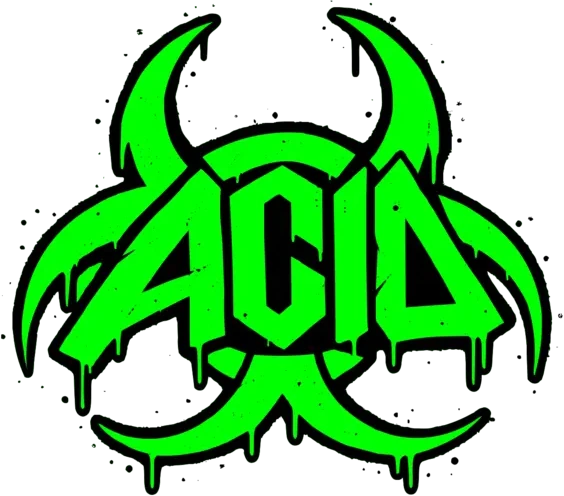
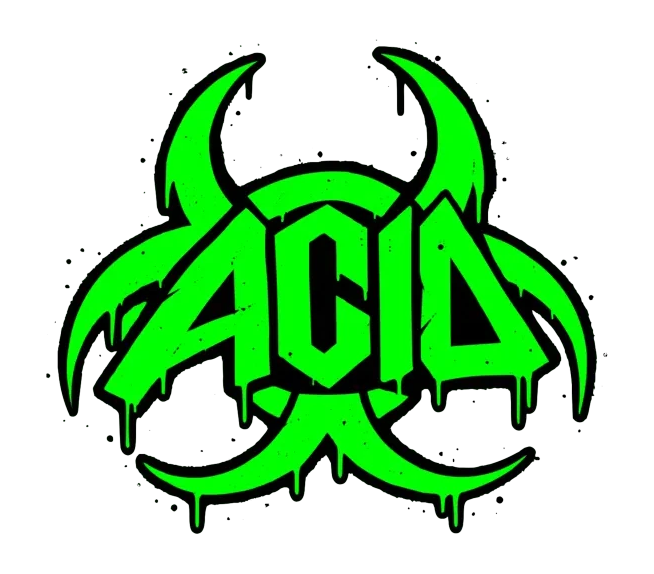
Actualizacion dom 20/09/2026 14:32:10.71

diff --git a/files/styles_R5Bk.css b/files/styles_R5Bk.css
@@ -1,5 +1,5 @@
 :root{--black:#08090a;--ink:#0e0f0c;--panel:#14160f;--line:rgba(180,255,120,.13);--cream:#0b0c09;--white:#fff;--acid:#00ff00;--acid-bright:#1b5e20;--hazard:#ffb300;--muted:#9a9c8f;--max:1320px;--pad:clamp(22px,5vw,72px);--gold:var(--acid);--gold-bright:var(--acid-bright)}
-*{box-sizing:border-box}html{scroll-behavior:smooth;zoom:0.85}body{margin:0;background:var(--black);color:var(--white);font-family:Inter,Segoe UI,Arial,sans-serif;font-size:16px;line-height:1.55;overflow-x:hidden}h1,h2,h3,h4,.brand,.site-header nav,.kicker,.ticker-track,.button,.filters button{font-family:Oswald,Impact,Arial Narrow,sans-serif}body.modal-open{overflow:hidden}a{color:inherit;text-decoration:none}button,input,textarea,select{font:inherit}button{color:inherit}.skip-link{position:fixed;left:16px;top:-60px;z-index:100;background:var(--gold);color:var(--black);padding:10px 16px;font-weight:800}.skip-link:focus{top:16px}.site-header{height:82px;position:absolute;top:0;left:0;right:0;z-index:20;display:flex;align-items:center;justify-content:space-between;padding:0 var(--pad);border-bottom:1px solid rgba(255,255,255,.15)}.site-header.scrolled{position:fixed;height:68px;background:rgba(7,7,7,.94)}.brand{display:flex;align-items:center;gap:12px;font-weight:900;letter-spacing:.18em}.brand>span:last-child{position:relative}.brand-mark{width:44px;height:44px;display:grid;place-items:center;overflow:visible;background:transparent;border:0}.brand-mark img{width:175%;height:175%;object-fit:contain}.site-header nav{display:flex;align-items:center;gap:clamp(20px,2.6vw,42px);font-size:.84rem;font-weight:750;letter-spacing:.08em;text-transform:uppercase}.site-header nav a{transition:color .2s}.site-header nav a:hover,.site-header nav a:focus-visible{color:var(--gold-bright)}.store-link{padding:11px 16px;border:1px solid var(--gold);color:var(--gold-bright)}.menu-toggle{display:none;background:none;border:0;padding:12px}.menu-toggle span{display:block;width:24px;height:1px;background:#fff;margin:6px}
+*{box-sizing:border-box}html{scroll-behavior:smooth;zoom:0.85}body{margin:0;background:var(--black);color:var(--white);font-family:Inter,Segoe UI,Arial,sans-serif;font-size:16px;line-height:1.55;overflow-x:hidden}h1,h2,h3,h4,.brand,.site-header nav,.kicker,.ticker-track,.button,.filters button{font-family:Oswald,Impact,Arial Narrow,sans-serif}body.modal-open{overflow:hidden}a{color:inherit;text-decoration:none}button,input,textarea,select{font:inherit}button{color:inherit}.skip-link{position:fixed;left:16px;top:-60px;z-index:100;background:var(--gold);color:var(--black);padding:10px 16px;font-weight:800}.skip-link:focus{top:16px}.site-header{height:82px;position:absolute;top:0;left:0;right:0;z-index:20;display:flex;align-items:center;justify-content:space-between;padding:0 var(--pad);border-bottom:1px solid rgba(255,255,255,.15)}.site-header.scrolled{position:fixed;height:68px;background:rgba(7,7,7,.94)}.brand{display:flex;align-items:center;gap:12px;font-weight:900;letter-spacing:.18em}.brand>span:last-child{position:relative}.brand-mark{width:44px;height:44px;display:grid;place-items:center;overflow:visible;background:transparent;border:0}.brand-mark img{width:100%;height:100%;object-fit:contain;position:relative;top:-2px}.site-header nav{display:flex;align-items:center;gap:clamp(20px,2.6vw,42px);font-size:.84rem;font-weight:750;letter-spacing:.08em;text-transform:uppercase}.site-header nav a{transition:color .2s}.site-header nav a:hover,.site-header nav a:focus-visible{color:var(--gold-bright)}.store-link{padding:11px 16px;border:1px solid var(--gold);color:var(--gold-bright)}.menu-toggle{display:none;background:none;border:0;padding:12px}.menu-toggle span{display:block;width:24px;height:1px;background:#fff;margin:6px}
 .hero{min-height:820px;height:100svh;position:relative;display:grid;grid-template-columns:1fr;align-items:end;overflow:hidden;padding:128px var(--pad) 82px}.hero-art{position:absolute;inset:0;background:linear-gradient(90deg,rgba(0,0,0,.98) 0%,rgba(0,0,0,.83) 38%,rgba(0,0,0,.26) 72%,rgba(0,0,0,.42) 100%),linear-gradient(0deg,#070707 0%,transparent 25%),url("assets/acid-alt-banner.webp") center/cover no-repeat;filter:saturate(.82) contrast(1.08);transform:scale(1.02)}.hero-grid{position:absolute;inset:0;background-image:linear-gradient(rgba(255,255,255,.045) 1px,transparent 1px),linear-gradient(90deg,rgba(255,255,255,.045) 1px,transparent 1px);background-size:72px 72px;mask-image:linear-gradient(90deg,#000,transparent 72%)}.hero-copy{position:relative;z-index:2;max-width:860px}.eyebrow,.kicker{text-transform:uppercase;letter-spacing:.14em;font-size:.78rem;font-weight:600;color:var(--hazard)}.eyebrow{display:flex;align-items:center;gap:12px;color:var(--gold-bright);margin:0 0 22px;font-size:1rem}.eyebrow span{width:38px;height:2px;background:var(--gold)}.hero h1{margin:0;font-size:clamp(3.9rem,8.4vw,8.1rem);line-height:.79;letter-spacing:-.02em;text-transform:uppercase;font-stretch:condensed;font-family:"Rubik Wet Paint",Oswald,sans-serif}.hero h1 em{font-family:Inter,sans-serif;font-style:italic;font-size:.55em;font-weight:300;text-transform:none;letter-spacing:-.01em;color:var(--gold-bright)}.hero-lede{max-width:570px;color:#d4d4d4;font-size:clamp(1rem,1.4vw,1.2rem);margin:32px 0}.hero-actions{display:flex;gap:12px;flex-wrap:wrap}.button{min-height:50px;display:inline-flex;align-items:center;justify-content:center;border:1px solid transparent;padding:0 22px;text-transform:uppercase;letter-spacing:.1em;font-size:.78rem;font-weight:900;cursor:pointer;transition:transform .2s,background .2s,color .2s}.button:hover{transform:translateY(-2px)}.button.gold{background:var(--gold);color:#100d05}.button.gold:hover{background:var(--gold-bright)}.button.ghost{border-color:rgba(255,255,255,.45);background:rgba(0,0,0,.15)}.button.ghost:hover{background:#fff;color:#000}.button.dark{background:#0b0b0b;color:#00ff00}.hero-rail{position:absolute;top:110px;right:var(--pad);z-index:3;display:flex;flex-wrap:wrap;justify-content:flex-end;max-width:calc(100vw - 2*var(--pad));gap:40px}.hero-rail div{border-left:1px solid var(--gold);padding:4px 0 4px 18px;display:grid}.hero-rail strong{font-size:2rem;line-height:1}.hero-rail span{font-size:.73rem;color:#ccc;text-transform:uppercase;letter-spacing:.11em;margin-top:7px}
 .ticker{height:96px;background:repeating-linear-gradient(135deg,var(--acid) 0 26px,#15170f 26px 44px);color:#fff;overflow:hidden;display:flex;align-items:center;position:relative}.ticker:before{content:"";position:absolute;left:0;right:0;top:50%;height:52px;transform:translateY(-50%);background:#0c0e08;z-index:1}.ticker-track{position:relative;z-index:2}.ticker-track span{background:transparent;padding:4px 12px;color:#fff;font-weight:900}.ticker-track{width:max-content;display:flex;align-items:center;gap:34px;animation:ticker 26s linear infinite;text-transform:uppercase;font-weight:900;letter-spacing:.13em;font-size:1.3rem;white-space:nowrap}.ticker-track i{width:9px;height:9px;background:var(--acid);transform:rotate(45deg)}@keyframes ticker{to{transform:translateX(-50%)}}
 .section{padding:110px var(--pad);max-width:calc(var(--max) + var(--pad)*2);margin:auto}.roster-section{min-height:100vh;box-sizing:border-box;position:relative;isolation:isolate;background:#090909!important;animation:none!important;transform:none!important}.roster-section::before{content:"";position:fixed;inset:0;z-index:-1;background:linear-gradient(rgba(9,9,9,.9),rgba(9,9,9,.9)),url("assets/bg-nordic-winter.webp") center/cover no-repeat;pointer-events:none}.section-head{display:flex;align-items:end;justify-content:space-between;gap:24px;margin-bottom:46px}.kicker{margin:0 0 9px;color:var(--hazard);font-size:.72rem}.section h2, .medal-section h2, .about-section h2, .partners-section h2{font-size:clamp(2.6rem,5vw,5rem);line-height:.96;letter-spacing:-.055em;text-transform:uppercase;margin:0}.section-head .text-link{font-size:.82rem;text-transform:uppercase;letter-spacing:.11em;border-bottom:1px solid #555;padding-bottom:7px}
@@ -7,8 +7,8 @@
 .filters{display:flex;gap:7px;flex-wrap:wrap;justify-content:flex-end}.filters button{border:1px solid #343434;background:transparent;padding:8px 13px;font-size:.7rem;text-transform:uppercase;letter-spacing:.1em;cursor:pointer}.filters button:hover,.filters button.active{background:var(--gold);color:#100d05;border-color:var(--gold)}.player-card{--tilt-x:0deg;--tilt-y:0deg;--pointer-x:50%;--pointer-y:50%;border:1px solid var(--line);background:#0e0e0e;transition:transform .18s ease,border-color .25s,box-shadow .25s;min-width:0;position:relative;overflow:hidden;cursor:pointer;transform-style:preserve-3d;will-change:transform}.player-card:after{content:"";position:absolute;inset:0;z-index:5;pointer-events:none;background:radial-gradient(circle at var(--pointer-x) var(--pointer-y),rgba(0,255,0,.16),transparent 33%);opacity:0;transition:opacity .2s}.player-card.hidden{display:none}.player-card:hover,.player-card:focus-visible,.player-card:focus-within{transform:perspective(1000px) rotateX(var(--tilt-x)) rotateY(var(--tilt-y)) translateY(-7px);border-color:rgba(0,255,0,.72);box-shadow:0 24px 55px rgba(0,0,0,.55)}.player-card:hover:after,.player-card:focus-visible:after,.player-card:focus-within:after{opacity:1}.player-card:focus-visible{outline:2px solid var(--gold-bright);outline-offset:4px}
 .coaching-copy>p:not(.kicker){color:#aaa;max-width:520px;margin:24px 0 30px}.section-summary{max-width:340px;color:#929292;margin:0}
 .partners-section{background:var(--cream);color:#fff;padding:100px max(var(--pad),calc((100vw - var(--max))/2));overflow:hidden}.partners-view .site-header{color:#00ff00;border-bottom-color:rgba(255,255,255,.16)}.partners-view .site-header.scrolled{background:rgba(7,7,7,.94)}.partners-view .menu-toggle span{background:#fff}.section-head.light{margin-bottom:44px}.section-head.light .section-summary{color:#999}.partner-marquee{display:grid;grid-template-columns:repeat(4,1fr);border-top:1px solid #333333;border-left:1px solid #333333}.partner-marquee a{min-height:160px;border-right:1px solid #333333;border-bottom:1px solid #333333;padding:25px;display:flex;flex-direction:column;position:relative;justify-content:flex-end;transition:background .25s,color .25s}.partner-marquee a:hover{background:var(--gold);color:#111}.partner-marquee strong{font-size:1.12rem;letter-spacing:.05em}.partner-marquee small{color:#777;margin-top:5px}.partner-marquee a:hover small{color:#111}.partner-marquee span{position:absolute;top:20px;right:20px;color:#00ff00}.partner-marquee a img.partner-logo{width:60px;height:60px;object-fit:contain;margin-bottom:14px;filter:grayscale(1) brightness(1.3);transition:filter .25s}.partner-marquee a:hover img.partner-logo{filter:none}
-.about-section{max-width:var(--max);margin:auto;padding:120px var(--pad);display:grid;grid-template-columns:.72fr 1.1fr .72fr;gap:clamp(28px,5vw,70px);align-items:center}.about-mark{aspect-ratio:1;background:transparent;display:grid;place-items:center;overflow:visible}.about-mark img{width:120%;height:120%;object-fit:contain;filter:contrast(1.08)}.about-copy>p:not(.kicker){color:#9b9b9b;max-width:600px}.community-card{background:var(--gold);color:#111;padding:32px;min-height:330px;display:flex;flex-direction:column;justify-content:flex-end}.community-card>p{font-size:.7rem;text-transform:uppercase;letter-spacing:.13em;font-weight:900}.community-card h3{font-size:1.8rem;line-height:1.05;margin:8px 0 24px}.community-link{font-size:.75rem;font-weight:800;text-transform:uppercase;letter-spacing:.09em;text-align:center;margin-top:16px}.store-cta p:not(.kicker){color:#bbb;max-width:520px}
-footer{border-top:1px solid var(--line);padding:56px var(--pad) 34px;display:grid;grid-template-columns:1fr 1fr;gap:30px;align-items:center}.footer-brand{display:flex;align-items:center;gap:14px}.footer-brand img{width:52px;height:52px;object-fit:contain;background:transparent}.footer-brand strong{letter-spacing:.15em}.footer-brand span{color:#666;font-size:.68rem;letter-spacing:.15em}footer>p{grid-column:1/-1;margin:15px 0 0;color:#555;font-size:.72rem}
+.about-section{max-width:var(--max);margin:auto;padding:120px var(--pad);display:grid;grid-template-columns:.72fr 1.1fr .72fr;gap:clamp(28px,5vw,70px);align-items:center}.about-mark{aspect-ratio:1;background:transparent;display:grid;place-items:center;overflow:visible}.about-mark img{width:139%;height:139%;object-fit:contain;filter:contrast(1.08)}.about-copy>p:not(.kicker){color:#9b9b9b;max-width:600px}.community-card{background:var(--gold);color:#111;padding:32px;min-height:330px;display:flex;flex-direction:column;justify-content:flex-end}.community-card>p{font-size:.7rem;text-transform:uppercase;letter-spacing:.13em;font-weight:900}.community-card h3{font-size:1.8rem;line-height:1.05;margin:8px 0 24px}.community-link{font-size:.75rem;font-weight:800;text-transform:uppercase;letter-spacing:.09em;text-align:center;margin-top:16px}.store-cta p:not(.kicker){color:#bbb;max-width:520px}
+footer{border-top:1px solid var(--line);padding:56px var(--pad) 34px;display:grid;grid-template-columns:1fr 1fr;gap:30px;align-items:center}.footer-brand{display:flex;align-items:center;gap:14px}.footer-brand img{width:60px;height:60px;object-fit:contain;background:transparent}.footer-brand strong{letter-spacing:.15em}.footer-brand span{color:#666;font-size:.68rem;letter-spacing:.15em}footer>p{grid-column:1/-1;margin:15px 0 0;color:#555;font-size:.72rem}
 .music-launch{position:fixed;left:24px;bottom:24px;z-index:31;background:var(--gold);color:#111;border:0;width:52px;height:52px;border-radius:50%;display:flex;align-items:center;justify-content:center;font-size:1.3rem;box-shadow:0 10px 30px #0009;cursor:pointer}.music-panel{position:fixed;left:24px;bottom:88px;z-index:30;width:min(260px,calc(100vw - 32px));background:#0d0d0d;color:#00ff00;border:1px solid #333333;padding:18px;box-shadow:0 22px 70px #000c;transform:translateY(15px);opacity:0;visibility:hidden;transition:.25s}.music-panel.open{transform:none;opacity:1;visibility:visible}.music-head{display:flex;align-items:center;justify-content:space-between;border-bottom:1px solid #333333;padding-bottom:12px;margin-bottom:14px;font-weight:800;letter-spacing:.08em;text-transform:uppercase;font-size:.8rem}.music-close{border:0;background:transparent;color:#aaa;font-size:1.3rem;cursor:pointer}.music-row{display:flex;align-items:center;gap:12px}.music-mute{border:1px solid #333333;background:#1a1a1a;color:#00ff00;width:38px;height:38px;font-size:1.1rem;cursor:pointer;flex-shrink:0}.music-row input[type=range]{flex:1;accent-color:var(--gold)}
 .chat-launch{position:fixed;right:24px;bottom:24px;z-index:31;background:var(--gold);color:#111;border:0;height:52px;padding:0 8px 0 18px;display:flex;align-items:center;gap:14px;font-size:.75rem;font-weight:900;text-transform:uppercase;letter-spacing:.08em;box-shadow:0 10px 30px #0009;cursor:pointer}.chat-launch b{width:36px;height:36px;display:grid;place-items:center;background:#111;color:#00ff00;font-size:1.2rem;font-weight:400}.chat-panel{position:fixed;right:24px;bottom:88px;z-index:30;width:min(360px,calc(100vw - 32px));background:#0d0d0d;color:#00ff00;border:1px solid #333333;padding:22px;box-shadow:0 22px 70px #000c;transform:translateY(15px);opacity:0;visibility:hidden;transition:.25s}.chat-panel.open{transform:none;opacity:1;visibility:visible}.chat-head{display:flex;align-items:flex-start;justify-content:space-between;border-bottom:1px solid #333333;padding-bottom:16px}.chat-head>div{display:flex;gap:10px;align-items:center}.online-dot{width:8px;height:8px;border-radius:50%;background:#00ff00;box-shadow:0 0 0 4px #00ff0022}.chat-head p{display:grid;margin:0}.chat-head small{color:#777}.chat-close,.dialog-close{border:0;background:transparent;font-size:1.5rem;cursor:pointer}.chat-panel>p{color:#999;font-size:.9rem}.chat-panel>a,.chat-panel>button.open-inquiry{width:100%;display:flex;justify-content:space-between;border:1px solid #333333;background:#1a1a1a;padding:13px;margin-top:9px;color:#00ff00;text-align:left;font-size:.82rem;font-weight:800;cursor:pointer}dialog{width:min(610px,calc(100vw - 32px));background:#111;color:#00ff00;border:1px solid #4b4129;padding:clamp(26px,5vw,48px);box-shadow:0 30px 100px #000;position:fixed}dialog::backdrop{background:rgba(0,0,0,.82);backdrop-filter:blur(6px)}.dialog-close{position:absolute;right:18px;top:12px;color:#aaa}dialog h2{font-size:2.4rem;text-transform:uppercase;margin:0;color:#fff}dialog form{display:grid;grid-template-columns:1fr 1fr;gap:17px;margin-top:26px}dialog label{display:grid;gap:7px;color:#b7b7b7;font-size:.78rem;font-weight:700}dialog label:nth-of-type(4){grid-column:1/-1}dialog input,dialog select,dialog textarea{width:100%;background:#1a1a1a;border:1px solid #3a3a3a;color:#00ff00;padding:12px;border-radius:0}dialog textarea{resize:vertical}dialog form .button{justify-self:start}
 @media (max-width:980px){.menu-toggle{display:block}.site-header nav{position:fixed;inset:0;background:#090909;display:flex;flex-direction:column;align-items:flex-start;justify-content:center;padding:80px var(--pad);gap:18px;font-size:1.4rem;transform:translateX(100%);transition:transform .3s}.partners-view .site-header nav{color:#00ff00}.partners-view .site-header:has(nav.open) .menu-toggle span{background:#fff}.site-header nav.open{transform:none}.site-header nav .store-link{margin-top:15px}.menu-toggle{z-index:2}.hero-rail{gap:24px}.medal-section, .about-section{grid-template-columns:1fr}.medal-grid{margin-top:10px}.partner-marquee, .stats-grid{grid-template-columns:repeat(2,1fr)}.partners-clippers-row{grid-template-columns:1fr!important}.partner-marquee[aria-label="Acid partners"],.partner-marquee[aria-label="Acid ascended clippers"]{grid-template-columns:repeat(2,1fr)!important}.partner-marquee[aria-label="Acid partners"] a,.partner-marquee[aria-label="Acid ascended clippers"] a,.partner-marquee[aria-label="Acid ascended clippers"] div{width:100%!important;height:auto!important;min-height:170px}.about-mark{max-width:420px}.community-card{min-height:260px}}
